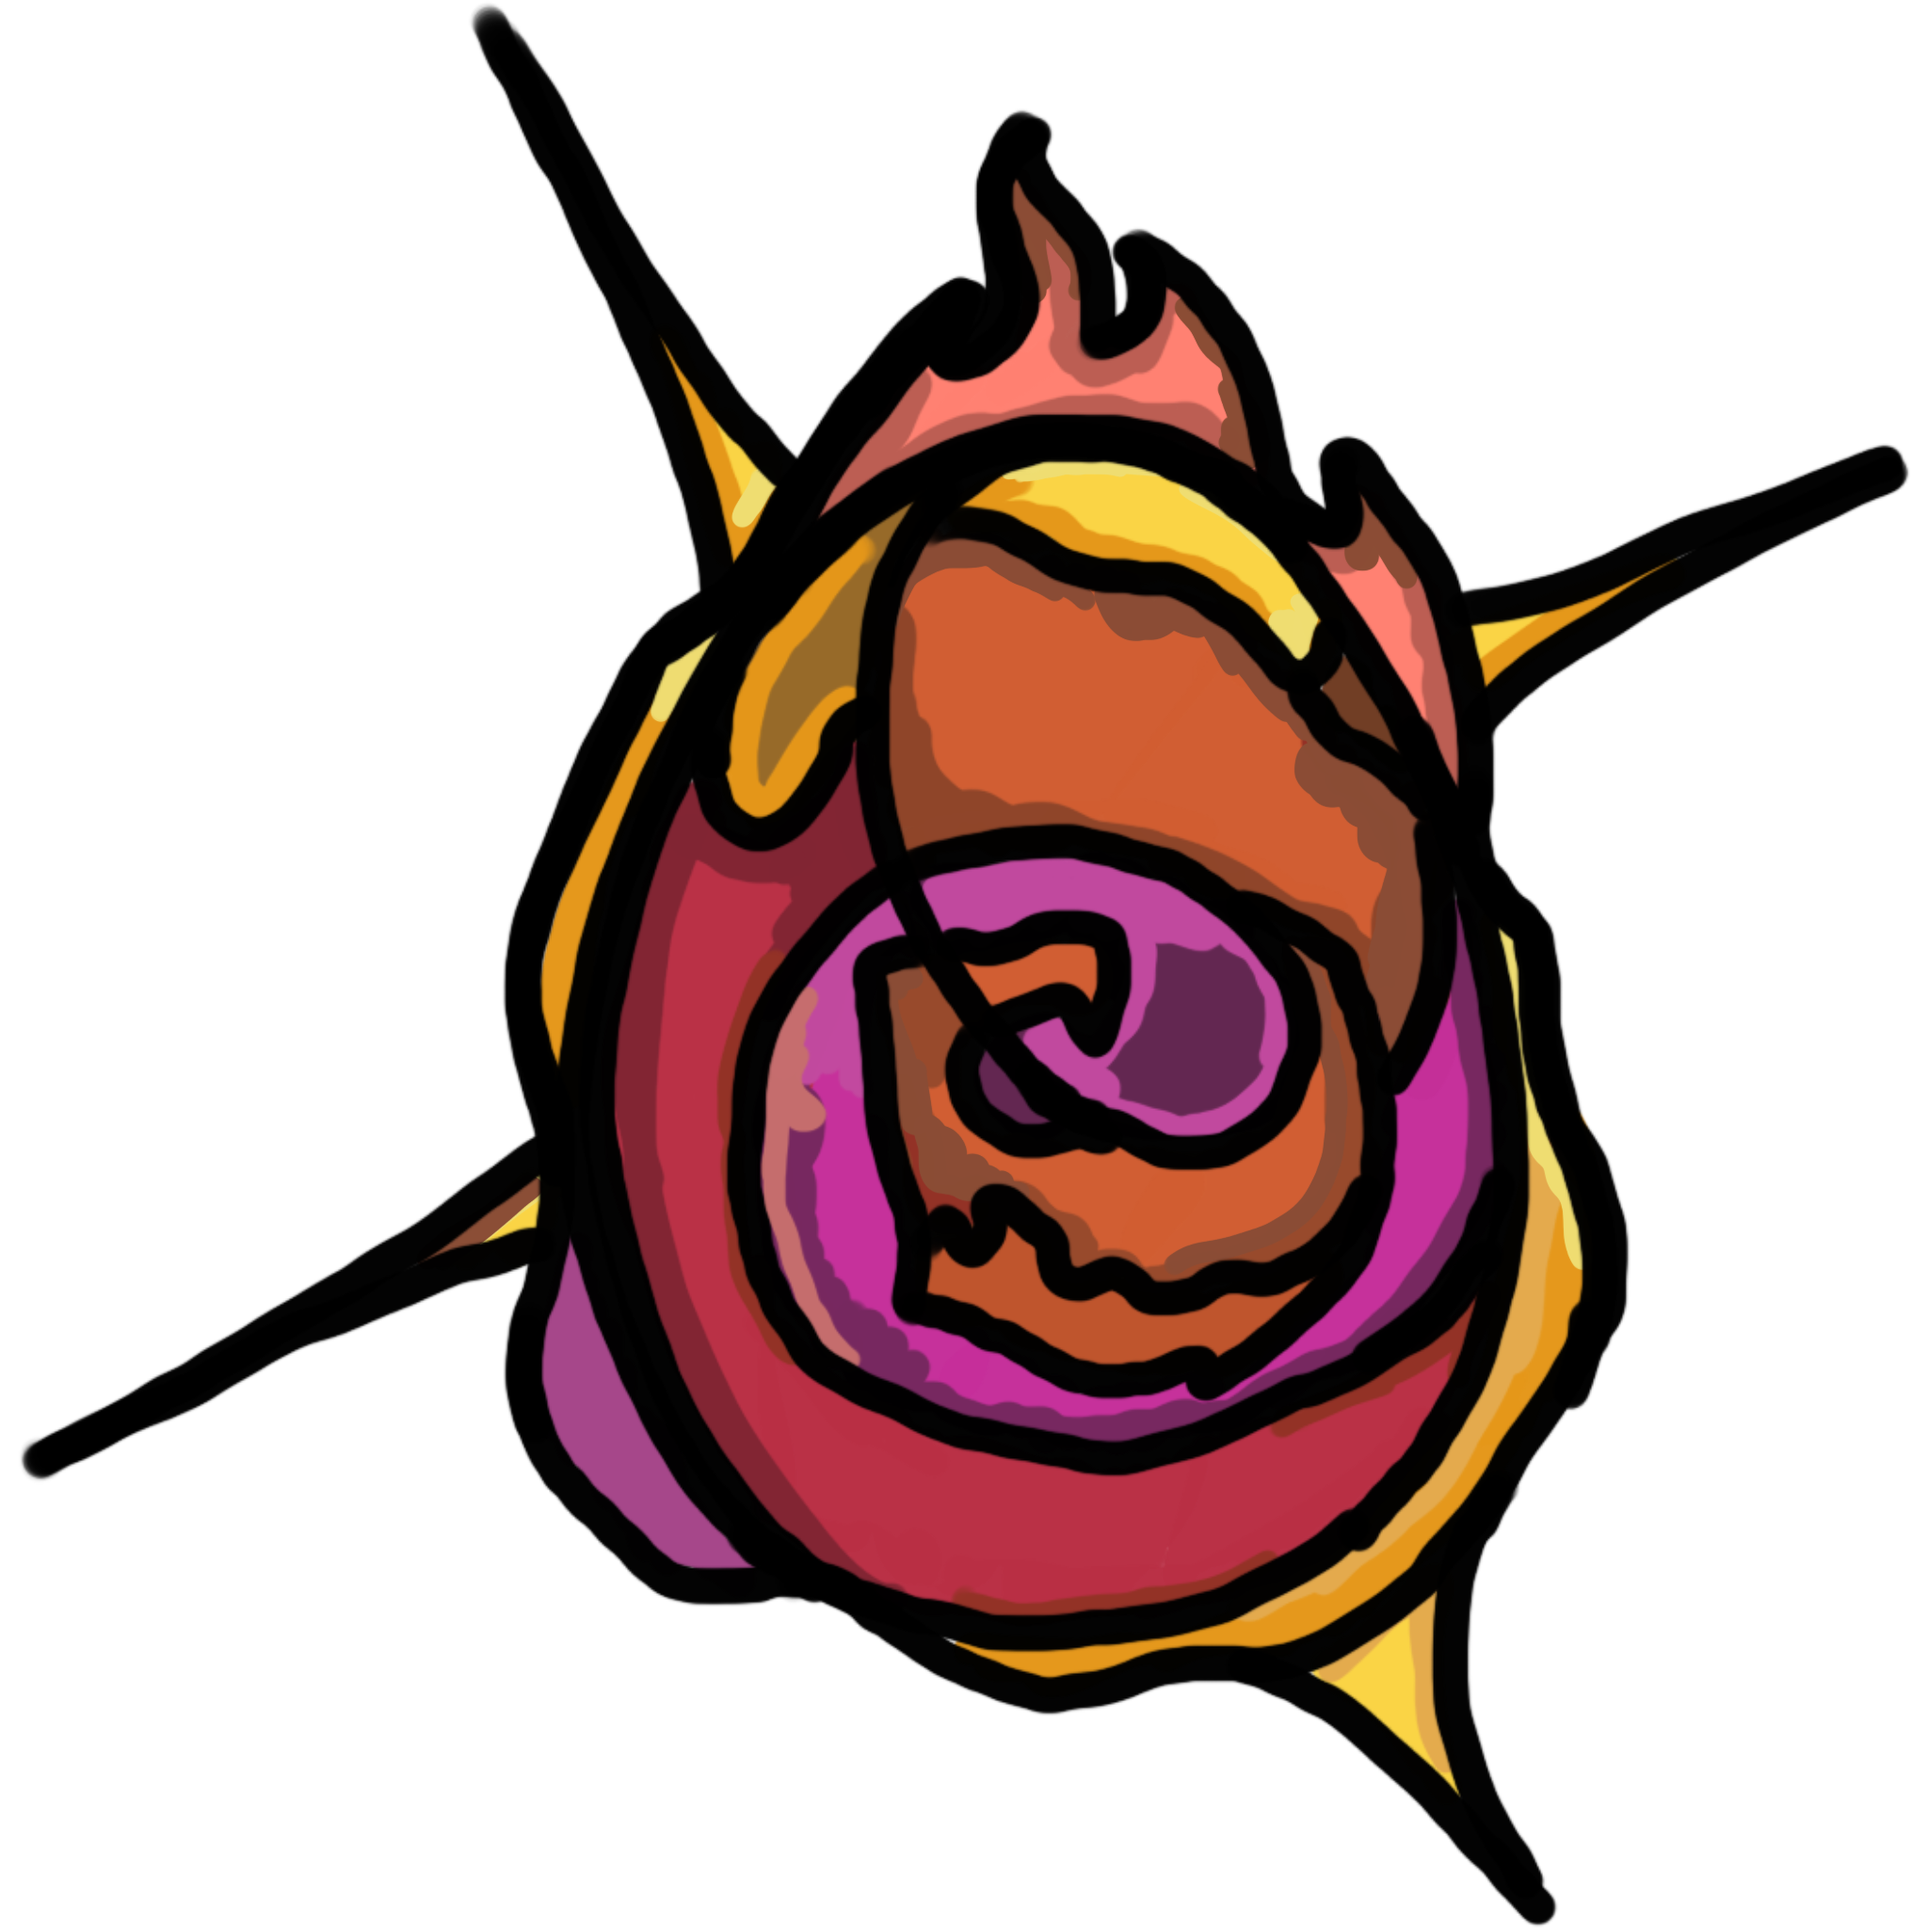
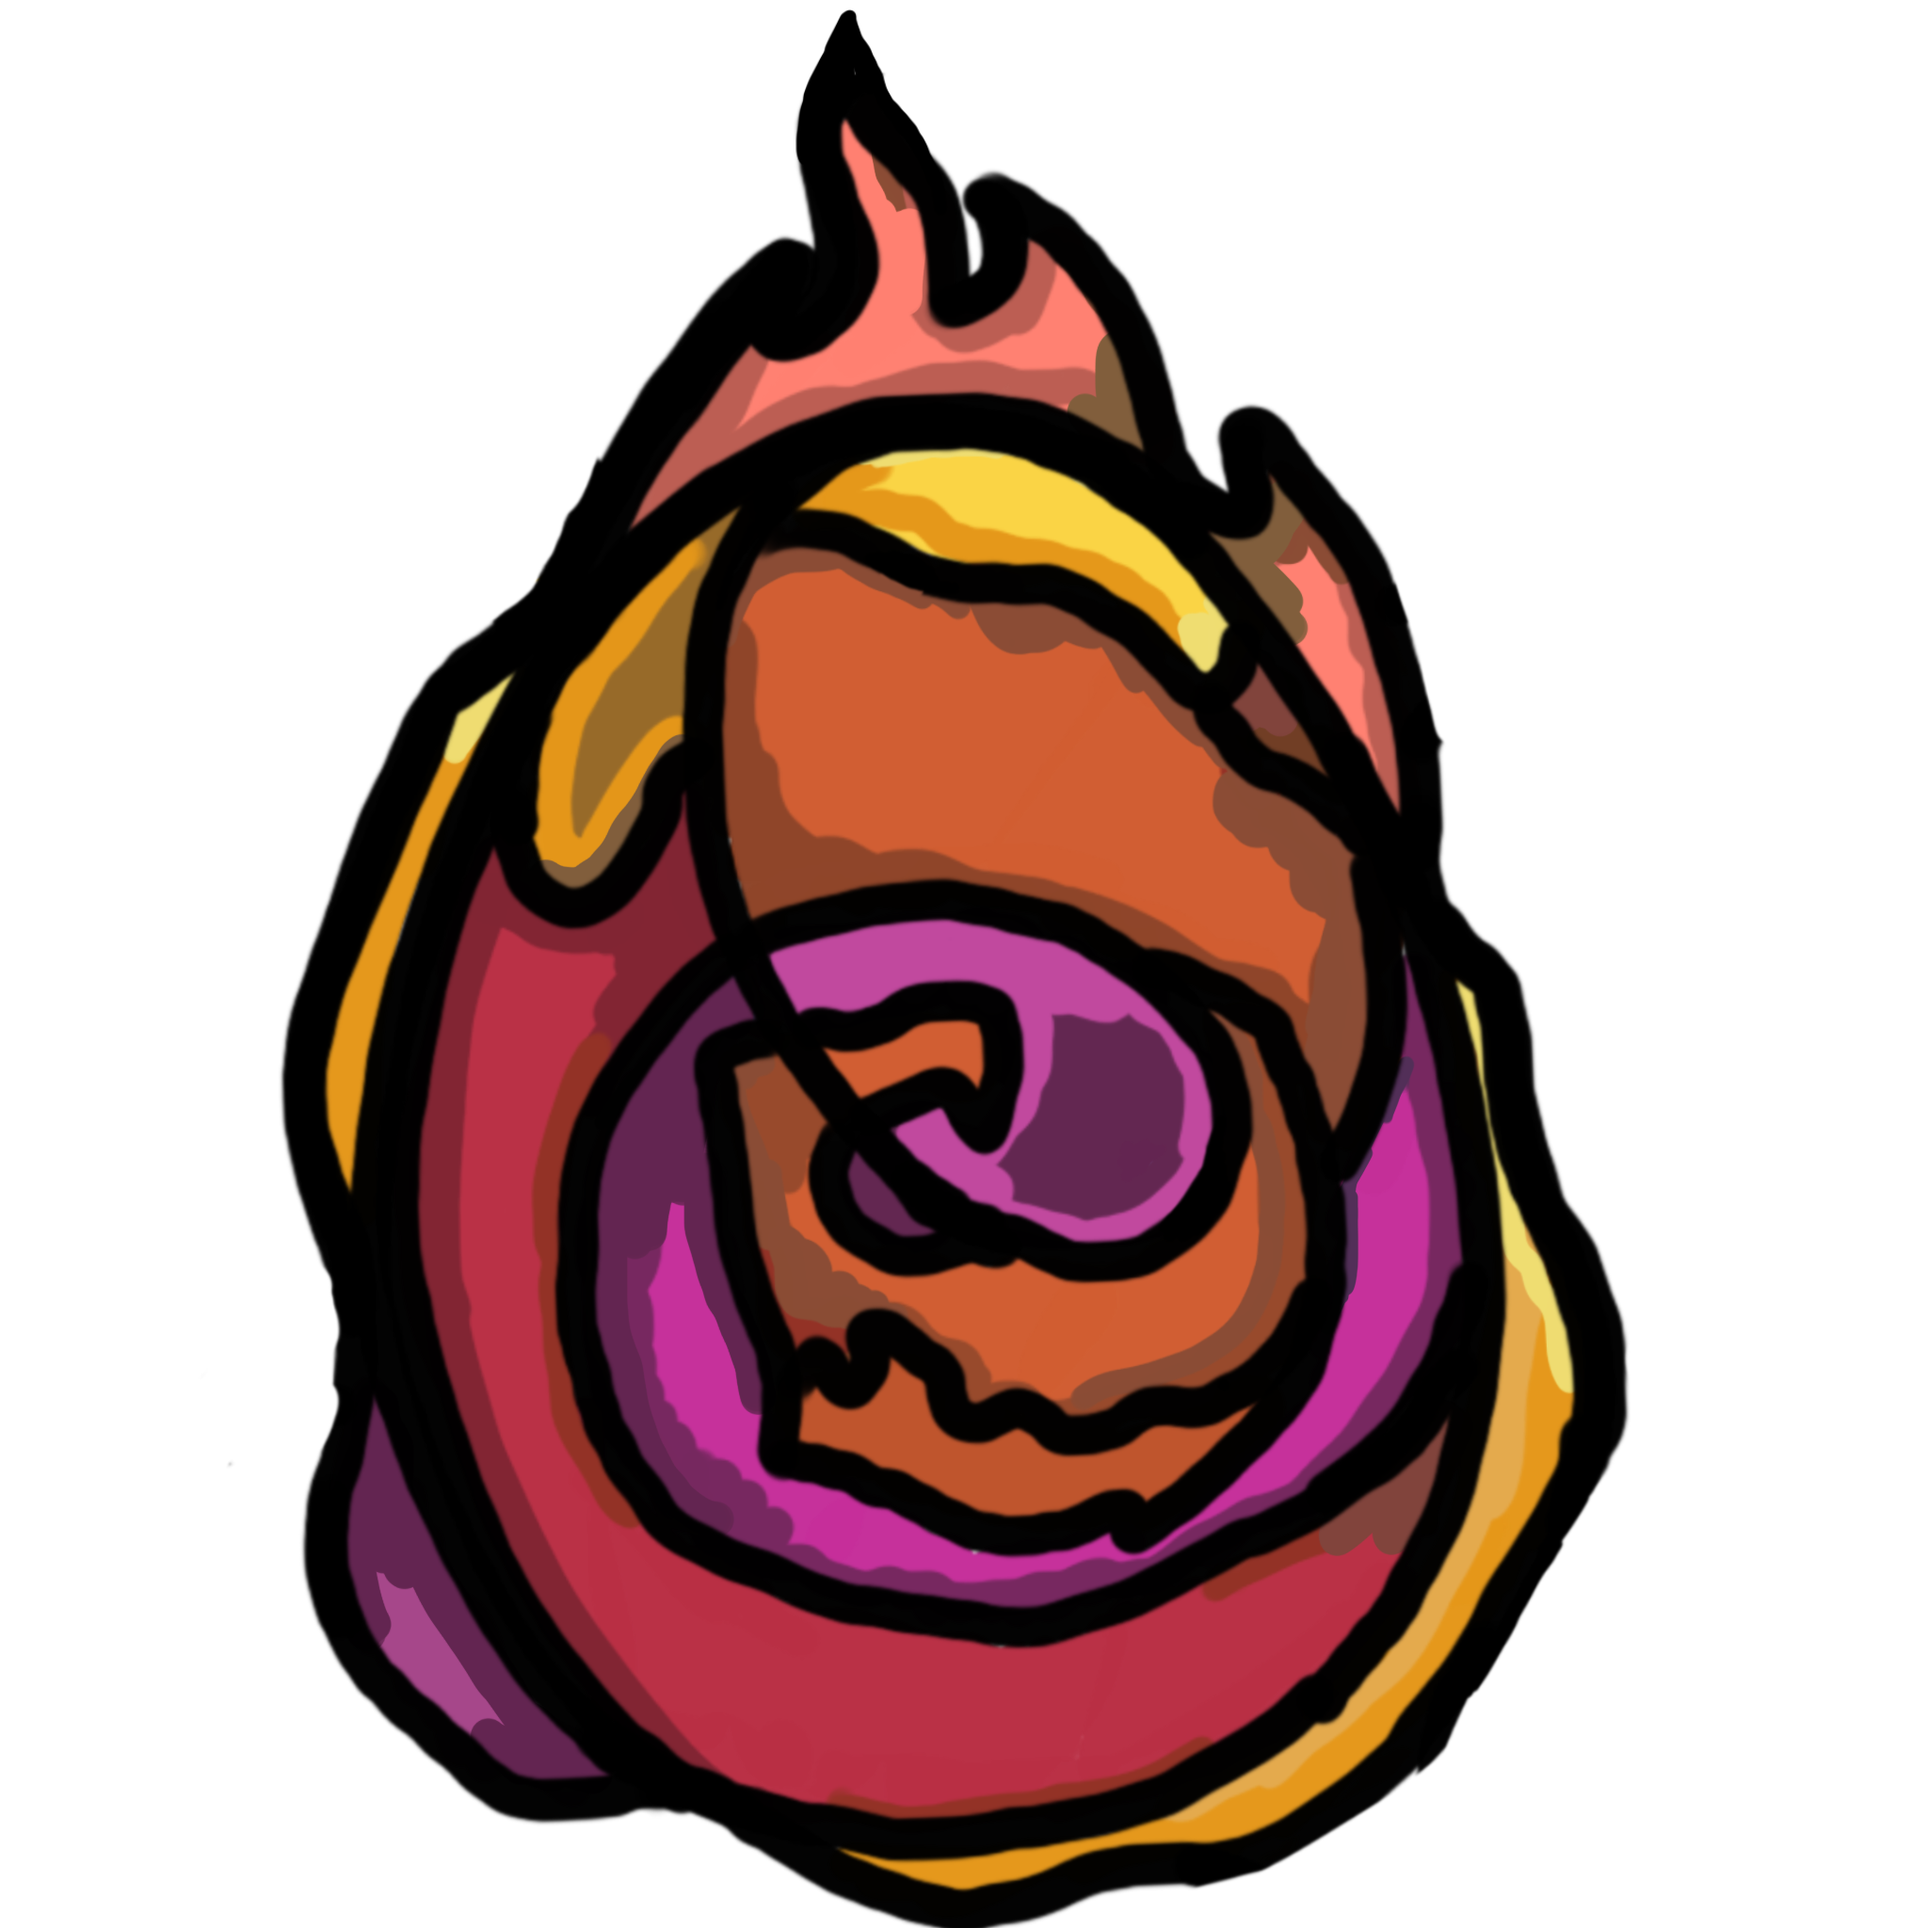
added new eggs

diff --git a/js/sketch.js b/js/sketch.js
@@ -12,6 +12,8 @@ var sandObject;
 var rockObject;
 var grassObject;
 var commonEggObject;
+var rareEggObject;
+var legendaryEggObject;
 var fishFoodObject;
 var cursorObject;
 var shopObject;
@@ -490,6 +492,7 @@ function preload(){
   //fish images
   commonFishImgArr = [loadImage('images/commonFish1.png'), loadImage('images/commonFish2.png')]
   commonEggImage = loadImage('images/commonEgg.png');
+  rareEggImage = loadImage('images/rareEgg.png');
   legendaryEggImage = loadImage('images/legendaryEgg.png');
   //objects
   rockImage = loadImage('images/rock.png')
@@ -528,6 +531,7 @@ function setup() {
   rockObject = new Button('rock', rockImage, 3, 3)
   grassObject = new Button('grass', grassImage, 3, 3)
   commonEggObject = new Button('commonEgg', commonEggImage, 1, 1)
+  rareEggObject = new Button('rareEgg', rareEggImage, 1, 1)
   legendaryEggObject = new Button('legendaryEgg', legendaryEggImage, 1, 1)
   fishFoodObject = new Button('food', fishFoodImage, 50, 50)
   cursorObject = new Button('cursor', cursorImage, 1000)
@@ -540,6 +544,7 @@ function setup() {
                     {name:'Rock', obj: rockObject, img: rockImage, price: '15', soldOut: false},
                     {name:'Sand', obj: sandObject, img: sandImage, price: '15', soldOut: false},
                     {name:'Common Egg', obj: commonEggObject, img: commonEggImage, price: '15', soldOut: false},
+                    {name:'Rare Egg', obj: rareEggObject, img: rareEggImage, price: '15', soldOut: false},
                     {name:'Legendary Egg', obj: legendaryEggObject, img: legendaryEggImage, price: '15', soldOut: false}
 
                   ]
@@ -749,6 +754,12 @@ function mousePressed(){
     game.fishArr.push(new Fish("Gold Fish", rarity, 60));
   }
   // ADD FISH
+  else if (mouseIsPressed && state=='rareEgg' && mouseY >= 200){
+    fishBeingHit.push(0);
+    let newFish = crackRareEgg();
+    let rarity = newFish[1];
+    game.fishArr.push(new Fish("Gold Fish", rarity, 60));
+  }
   else if (mouseIsPressed && state=='legendaryEgg' && mouseY >= 200){
     fishBeingHit.push(0);
     let newFish = crackLegendaryEgg();
